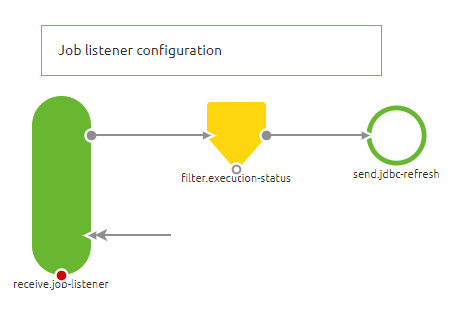
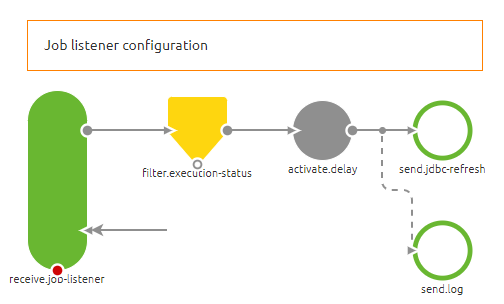
Update of the 'How-to' transfer Mendix data to AWS Redshift

diff --git a/mds/howto/store-your-mendix-data-in-redshift.md b/mds/howto/store-your-mendix-data-in-redshift.md
@@ -1,39 +1,41 @@
 # How to store your Mendix data in AWS Redshift using eMagiz
 
 ## 1. Introduction
-This document explains how to setup a data pipeline between Mendix and AWS Redshift using eMagiz and how to publish the AWS Redshift data using AWS materialized views.
- 
-## 2. Getting started
-1. Publish the data using OData service in your Mendix project.
-2. Use the Mendix PostgreSQL data structure to create the target table in Redshift (Recommended).
-3. Import the 'Mendix to Redshift' datapipeline flow from the store.
-   <p align="center"><img src="../../img/howto/datapipeline-store-item.png"></p>
+This document explains how to setup a data pipeline between Mendix and AWS Redshift using eMagiz and how to publish the AWS Redshift data using AWS materialized views. eMagiz data pipelines are flows that support high-volume data transfer using <a href="_new">Spring Batch</a> technology. The data is retrieved from Mendix by using an OData webservice. The data is written to AWS Redshift using the AWS recommended way: Intermediate storage of comma-separates data in AWS S3.
 
-4. Follow the store items instructions to setup the data pipeline.
-5. Follow the rest of this how-to to start using AWS materialized views.
+Advantages of eMagiz data pipelines
+ * Supports very large tables
+ * Fast Mendix to Redshift-integration development compared to message bus integrations
+
+Disadvantages of eMagiz data pipelines
+ * Does not support complex data structures (one table per data pipeline)
+ * Does not support complex transformations (only column selection/renaming)
+ * Data structure changes need to be applied to both source and target tables
+
+## 2. Getting started
+1. Publish the data using an OData service in your Mendix project.
+1. Use the Mendix PostgreSQL data structure to create the target table in Redshift (Recommended).
+1. Import the 'Mendix to Redshift' datapipeline flow from the store.
+   <p align="center"><img src="../../img/howto/datapipeline-store-item.png"></p>
+1. Follow the store items instructions to setup the data pipeline.
+1. Follow the rest of this how-to to start using AWS materialized views.
 
 ## 3. Create a materialized view
 1. Use SQL Workbench or the AWS Console to connect to the Redshift database.
-1. Write and test the SQL statement. If you need help joining tables look at the 
-<a target="_new" href="https://www.w3schools.com/sql/sql_join_inner.asp">w3school tutorials</a>.
+1. Write and test the SQL statement to select data from the Redshift database. If you need help joining tables look at the 
+    <a target="_new" href="https://www.w3schools.com/sql/sql_join_inner.asp">w3school tutorials</a>.
 1. Execute the following statement to create the materialized view:</br>
-<code>CREATE MATERIALIZED VIEW {viewname} AS {your query};</code>
+    <code>CREATE MATERIALIZED VIEW {viewname} AS {your query};</code>
+    <p align="center"><img  src="../../img/howto/datapipeline-create-materialized-view.png"></p>
 1. For more info see the AWS documentation: 
-<a target="_new" href="https://docs.aws.amazon.com/redshift/latest/dg/materialized-view-overview.html">Creating materialized views in Amazon Redshift</a>
+    <a target="_new" href="https://docs.aws.amazon.com/redshift/latest/dg/materialized-view-overview.html">Creating materialized views in Amazon Redshift</a>
 
 ## 4. Refresh the materialized view
-1. Add a JDBC outbound channel adapter to your data pipeline flow and connect it to existing JDBC redshift data source. Enter the query:</br>
-<code>REFRESH MATERIALIZED VIEW ${dp.jdbc.message.mvtablename}</code>
-1. Use your own trigger mechanism or add a 'Job execution listener gateway' to trigger the refresh after the data pipeline job is done.
-1. Add a standard filter in between to only trigger on succesfull job executions. Filter expression:</br>
-<code>payload.status == T(org.springframework.batch.core.BatchStatus).COMPLETED</code>
-1. If you have executed step 1, 2 and 3 you have extended your flow with these components:
+1. The example data pipeline flow from the store contains a job listener structure to refresh the AWS Materialized view after the job is complete. In this structure the <i>send.jdbc-refresh</i> component send the <code>REFRESH MATERIALIZED VIEW</code> command to AWS Redshift.
     <p align="center"><img  src="../../img/howto/datapipeline-listener-structure.png"></p>
-1. Make sure to register the job listener gateway in the job configuration (advanced tab).
-    <p align="center"><img  src="../../img/howto/datapipeline-job-listeners.png"></p>
-1. It is highly recommended to have only on data pipeline in one eMagiz flow. If you have materialized views using data from different data pipelines, refresh the materialized view after each pipeline or create a custom refresh mechanism.
+1. It is highly recommended to have only one data pipeline in one eMagiz flow. If you have materialized views using data from different data pipelines, by default, the materialized view will be refreshed after each pipeline. If this causes invalid data in the materialized view, consider removing the refresh structure from all but the last scheduled data pipeline.
 
-## 4. Delete the Materialized view
+## 5. Delete the Materialized view
 1. Use SQL Workbench or the AWS Console to connect to the Redshift database.
 1. Execute the following statement to delete the materialized view:</br>
 <code>DROP MATERIALIZED VIEW {viewname};</code>
